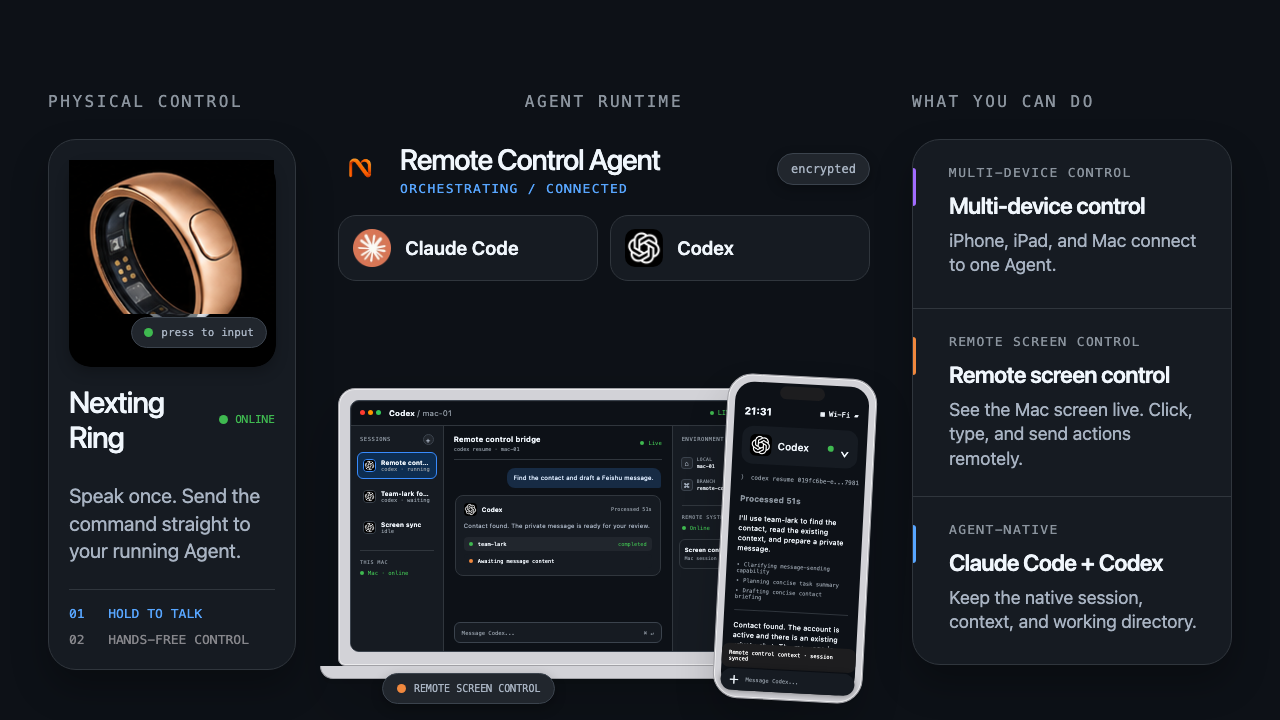
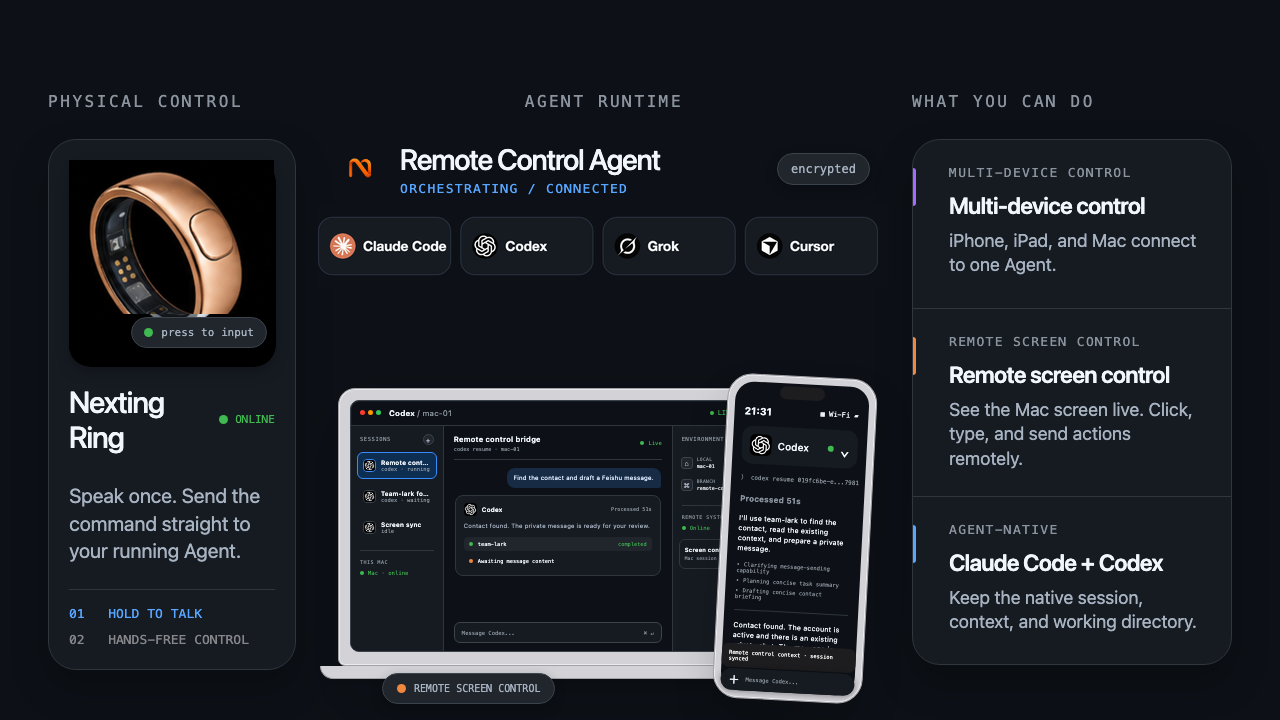
docs: add Grok and Cursor to the README and hero (#40)
The public landing still only named Claude Code and Codex. Put Grok
and Cursor on the runtime pills, the BYOA table, and the install
sections.

Changed region(s): [[0.25, 0.3056, 0.4375, 0.3972], [0.4688, 0.3056, 0.6562, 0.3667]]

diff --git a/README.md b/README.md
@@ -6,7 +6,7 @@
 
 <p align="center">
   <strong>Remote control for your own AI agents.</strong><br>
-  Connect to Claude Code and Codex on your Mac or Windows PC.<br>
+  Connect to Claude Code, Codex, Grok, and Cursor on your Mac or Windows PC.<br>
   View sessions, send tasks, and drive them remotely from your phone, PIN, or Ring.
 </p>
 
@@ -26,7 +26,7 @@
   <img src="public/remote-control-agent-dark.png" alt="Nexting Remote Control Agent — Mac, phone, and Ring control" width="100%">
 </p>
 
-You already have powerful agents — Claude Code, Codex, OpenClaw — running on your computer. **Nexting connects you to them remotely**: view live sessions, send tasks, and drive Claude Code or Codex from your phone, PIN, or Ring, wherever you are. When you only need to send an idea, speak once and let your own agent work in the background.
+You already have powerful agents — Claude Code, Codex, Grok, Cursor, OpenClaw — running on your computer. **Nexting connects you to them remotely**: view live sessions, send tasks, and drive Claude Code, Codex, Grok, or Cursor from your phone, PIN, or Ring, wherever you are. When you only need to send an idea, speak once and let your own agent work in the background.
 
 **Remote control, not just dispatch — view, send, drive.**
 
@@ -34,7 +34,7 @@ Nexting comes in two form factors, one capability. The **PIN** ($129, shipping n
 
 ```
 You speak → Nexting PIN (BLE) → iPhone App (STT) → Cloud → your own agent
-                                                          (Claude Code / Codex / OpenClaw)
+                                                          (Claude Code / Codex / Grok / Cursor / OpenClaw)
                                                                ↓
  Result pushed back ← iPhone App ← ── ── agent runs it in the background
 ```
@@ -45,10 +45,10 @@ You speak → Nexting PIN (BLE) → iPhone App (STT) → Cloud → your own agen
 
 | | |
 |---|---|
-| **Remote control** | Attach to a Claude Code or Codex session on your Mac or Windows PC, view it live, send tasks, and drive it remotely from your phone or wearable. |
+| **Remote control** | Attach to a Claude Code, Codex, Grok, or Cursor session on your Mac or Windows PC, view it live, send tasks, and drive it remotely from your phone or wearable. |
 | **Dispatch, not chat** | Fire-and-forget: say it once, your agent runs it in the background. Not Q&A. |
-| **Your own agent** | Drives the agents you already run — Claude Code, Codex, OpenClaw. Not a locked-in model. |
-| **Private by design** | Claude Code & Codex support optional end-to-end encryption — turn it on and Nexting relays ciphertext, not your session. |
+| **Your own agent** | Drives the agents you already run — Claude Code, Codex, Grok, Cursor, OpenClaw. Not a locked-in model. |
+| **Private by design** | Claude Code, Codex, Grok, and Cursor support optional end-to-end encryption — turn it on and Nexting relays ciphertext, not your session. |
 | **Delivers while you're offline** | Phone locked, on the move? The agent still finishes the job and pushes the result back. |
 | **Deep iPhone integration** | Calendar, Reminders, Contacts, Health, HomeKit — all by voice. |
 
@@ -59,7 +59,7 @@ Nexting isn't another voice assistant — it's the pocket control surface for yo
 1. **Get a PIN** ($129, shipping now) — or join the [Ring private beta](https://nexting.ai/reserve).
 2. **Install the [Nexting iOS app](https://apps.apple.com/us/app/nexting-wearable-ai-agent/id6760344343)** and sign in.
 3. **Pair your PIN** over Bluetooth.
-4. **Connect your agent** — Claude Code, Codex, OpenClaw, a local model, or managed Nexting Pro (see below).
+4. **Connect your agent** — Claude Code, Codex, Grok, Cursor, OpenClaw, a local model, or managed Nexting Pro (see below).
 5. **Press, speak, dispatch.**
 
 ## Bring Your Own Agent
@@ -70,6 +70,8 @@ Nexting is a terminal, not a model. Connect the agent you already run:
 |------|-----------|------|
 | **Claude Code** | Attach to a [Claude Code](https://claude.com/product/claude-code) session on your Mac or Windows PC and drive it from your PIN — live. | Free |
 | **Codex** | Attach to an OpenAI Codex CLI session on your Mac or Windows PC and drive it from your PIN — live. | Free |
+| **Grok** | Attach to a [Grok Build](https://grok.com) session on your Mac and drive it from your PIN — live. | Free |
+| **Cursor** | Attach to a [Cursor](https://cursor.com) Desktop session on your Mac and drive it from your PIN — live. | Free |
 | **MyOpenClaw** | Run your own [OpenClaw](https://github.com/openclaw/openclaw) instance. We handle the relay. | Free |
 | **MyHermes** | Any OpenAI-compatible local AI — Hermes Agent, Ollama, vLLM, LM Studio. | Free |
 | **Nexting Pro** | Managed agent in the cloud. Latest Claude, GPT, and Gemini models, zero setup. | $29/mo or $279/yr |
@@ -117,6 +119,34 @@ irm https://nexting.ai/install-codex.ps1 | iex
 ```
 
 Then just run `codex` as usual — your sessions appear in the Nexting app, live. Uninstall anytime: `nexting-cc-bridge codex-uninstall`.
+
+</details>
+
+<details>
+<summary><img src="public/logos/grok.svg" width="16" alt="" /> <strong>Grok</strong> — same idea, for Grok Build on your Mac</summary>
+<br>
+
+One command to sign in and install:
+
+```bash
+curl -fsSL https://nexting.ai/install-grok | bash
+```
+
+Then just run `grok` as usual — your sessions appear in the Nexting app, live. Uninstall anytime: `nexting-cc-bridge grok-uninstall`.
+
+</details>
+
+<details>
+<summary><img src="public/logos/cursor.svg" width="16" alt="" /> <strong>Cursor</strong> — same idea, for Cursor Desktop on your Mac</summary>
+<br>
+
+One command to sign in and install:
+
+```bash
+curl -fsSL https://nexting.ai/install-cursor | bash
+```
+
+Your Cursor Desktop sessions appear in the Nexting app, live. Uninstall anytime: `nexting-cc-bridge cursor-uninstall`.
 
 </details>
 
@@ -193,7 +223,7 @@ All data stays on your iPhone. You control every permission.
 
 ## Privacy
 
-- Claude Code & Codex support **end-to-end encryption** (opt-in) — with it enabled, Nexting relays ciphertext, not readable session content
+- Claude Code, Codex, Grok, and Cursor support **end-to-end encryption** (opt-in) — with it enabled, Nexting relays ciphertext, not readable session content
 - Raw audio is discarded immediately after transcription — never stored
 - Voice streams over encrypted WebSocket (WSS)
 - Self-hosted modes keep all data on your own infrastructure
